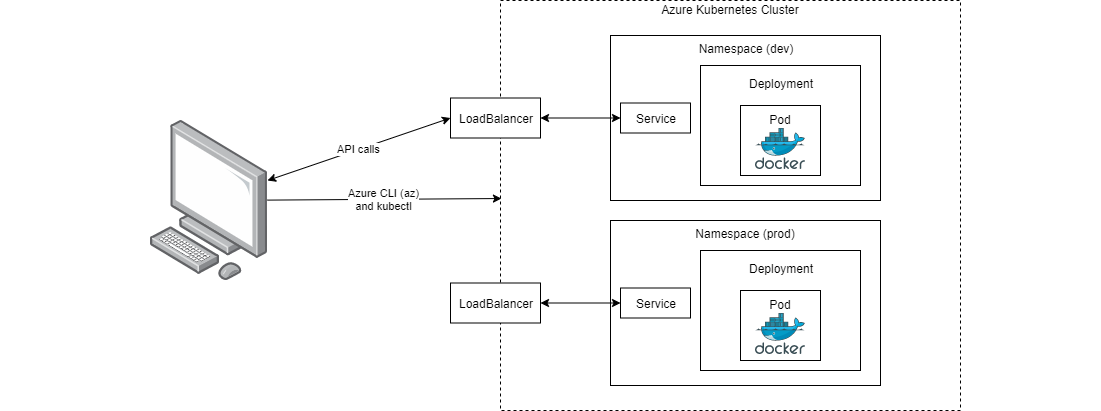
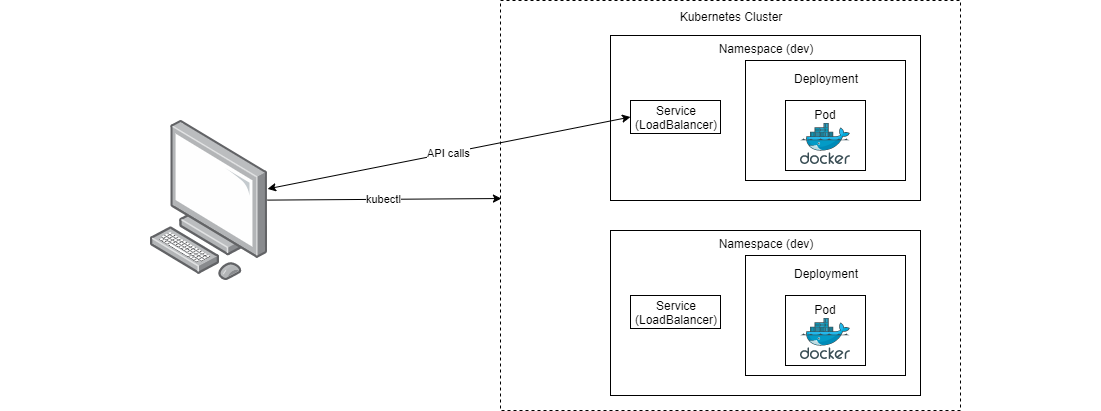
More adjustments

diff --git a/b-kubernetes/readme.md b/b-kubernetes/readme.md
@@ -1,37 +1,36 @@
 ## Kubernetes
-
-We will deploy to a local kubernetes cluster. 
+We will deploy to a local kubernetes cluster with kubectl. 
 
 #### Agenda: 
-We will create a cluster and use the kubernetes cli tool "kubectl": 
 1. Create a cluster on your machine.
 2. 'kubectl run'. Deploy docker image to kubernetes. Similar to 'docker run'
 3. 'kubectl apply'. Deploy docker image to kubernetes based on configuration
+4. Add a secret to kubernetes
 
 
-#### Create a kubernetes cluster on your machine 
-You will need to run a kubernetes cluster locally. This is fairly straight forward if you have installed docker.
+#### 1. Create a kubernetes cluster on your machine 
+You will need to run a kubernetes cluster locally. This is fairly straight forward if you have docker installed.
  1. On windows - right click the docker icon in the lower right corner. 
  2. Click "Settings". 
  3. Find "Kubernetes" tab and click "Enable Kubernetes"
  4. Wait a bit
 
-##### Run image - "kubectl run"
+#### 2. Run image - "kubectl run"
 You can run an image with "kubectl run" which is very similar to "docker run" in the previous section.
 
 ```bash
 kubectl run --image=my-api:1.0.0 my-api-app --port=8080
 
 # The statement above will create two resources: a "deployment" and a "pod". 
-# A "pod" is usually a docker container and a "deployment" is a description of the "desired state" after a deploy.
+# A "pod" is usually a docker container and a "deployment" is a description of the desired state after a deploy.
 # For instance, a "deployment" will describe which image to use, which ports to expose and how many instances of an app
 
 # You can see pods and deployments with:
 kubectl get deploy
 kubectl get pod
 
-# The pod runs inside the clusters network. You can expose it through a service which we will call my-api-service. 
-# We create a service called "my-api-service" that expose the app on localhost:8080.      
+# The pod runs inside the clusters network. You can expose it through a service. 
+# We will call it "my-api-service" that exposes the app on localhost:8080.
 kubectl expose deployment my-api-app --type=LoadBalancer --name=my-api-service --port=8080
 
 # You can see it here
@@ -46,9 +45,7 @@ kubectl delete deploy/<deployment-name>
 kubectl delete service/<service-name>
 ```
  
-#### Deploy configuration - "kubectl apply"
-We want "Configuration as code". 
-
+#### 3. Deploy configuration - "kubectl apply"
 The file "node-api-deployment.yaml" contains the configuration required to create a "deployment" and "pod" similar to the previous section. The configuration is based on [A deployment configuration](https://kubernetes.io/docs/concepts/workloads/controllers/deployment/#creating-a-deployment).
 
 Furthermore, we have added some environment variables in the configuration. The environment variable APP_DEV is set to "DEV" and APP_SECRET="NOT_REALLY_A_SECRET_YET"".

diff --git a/c-helm/readme.md b/c-helm/readme.md
@@ -1,11 +1,14 @@
 ## Helm
-We want to use Helm to deploy our app. This is convenient when deploying to multiple environments. Furthermore, it is will allow us to easily share helm charts. You can think about a helm as a "package manager" in a similar way as npm, nuget, maven or yum.
+
+We want to use Helm to deploy our app. 
+
+
+#### What is Helm?
+Helm is convenient when deploying to multiple environments in kubernetes. Furthermore, it is will allow us to easily share helm charts. You can think about a helm as a "package manager" in a similar way as npm, nuget, maven or yum.
 
 > It is not part of this tutorial but Helm is very powerful, because enables you "reuse" complicated deployments. For instance, a clustered PostgreSQL database.
 
 The folder "nodejs-api-helm" contains the helm chart (You can create that with "helm create nodejs-api-helm")
-
-The helm chart are actually "Go Templates", so you can read more about the syntax [here](https://blog.gopheracademy.com/advent-2017/using-go-templates/)
 
 The folder contains
 - values.yaml. The default properties. I only have 3 props to simplify things
@@ -17,6 +20,10 @@ The folder contains
     - I have a different port to ensure that there is no port collision when running local cluster 
     - I will use the secret from kubernetes. The steps to add a secret is showed below.  
 
+> The weird syntax {{ .Values.appEnvironment}} is actually "Go Templates" from golang. You can read more about the syntax [here](https://blog.gopheracademy.com/advent-2017/using-go-templates/). 
+
+#### Creating namespaces and secrets
+
 Before we deploy, we will create the relevant namespaces and secrets.
 
 ```bash
@@ -25,9 +32,18 @@ kubectl create namespace my-api-dev
 kubectl create namespace my-api-prod
 kubectl create secret generic my-api-secret --from-literal=appsecret='VERY SECRET DEV' --namespace=my-api-dev
 kubectl create secret generic my-api-secret --from-literal=appsecret='VERY SECRET PROD' --namespace=my-api-prod
+```
 
+#### Deploying the helm charts
+Deploying the helm chart to dev and prod namespaces.
+
+```bash
 cd nodejs-api-helm
+
+# Dev deployment
 helm upgrade --install -f values.yaml my-api-dev .
+
+# Production deployment
 helm upgrade --install -f values-prod.yaml my-api-prod .
 
 # list deployments

diff --git a/a-docker/readme.md b/a-docker/readme.md
@@ -3,8 +3,6 @@
 We want to run a docker container with a small app with three endpoints.    
 
 #### What?
-The application we are running has three endpoints:   
-
 The app will expose three endpoints at http://localhost:8080.
 - '/'. Returns "Hello World!" 
 - '/env'. Returns the environment variable "APP_ENV" if exists.
@@ -18,7 +16,6 @@ The app we will run is a nodejs app. You can just skip this section if you don't
 ```bash
 # install dependencies and run app
 npm install
-node index.js
 
 # run the app locally
 node index.js
